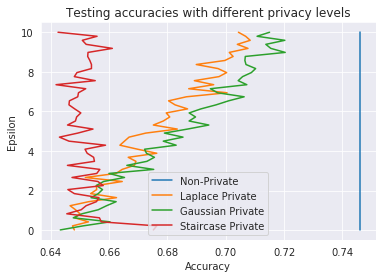
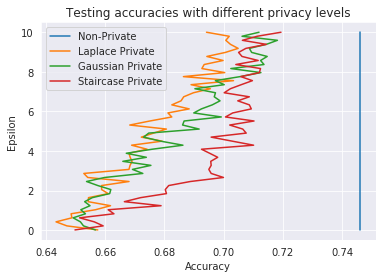
Update

diff --git a/Models/Data_Functions.py b/Models/Data_Functions.py
@@ -14,14 +14,6 @@ from sklearn.neighbors import KNeighborsClassifier
 from sklearn.ensemble import GradientBoostingClassifier
 from sklearn.svm import SVC
 
-def isKAnonymized(df, k):
-    for index, row in df.iterrows():
-        query = ' & '.join([f'{col} == {row[col]}' for col in df.columns])
-        rows = df.query(query)
-        if rows.shape[0] < k:
-            return False
-    return True
-
 def generateModel(model_type, X_train, y_train):
     """
     This function generates a model and trains it based on the model type.
@@ -302,7 +294,7 @@ def staircaseRV(epsilon, sensitivity, gamma):
     ----------
     epsilon : float
         The mean for the laplace distribution.
-    delta : float
+    sensitivity : float
         The standard deviation.
     gamma : float
         float in the range [0,1]
@@ -343,3 +335,13 @@ def staircaseRV(epsilon, sensitivity, gamma):
     
     return X
 
+def noisy_gradient_descent(iterations, epsilon, delta):
+    theta = np.zeros(X_train.shape[1])
+    sensitivity = '???'
+
+    for i in range(iterations):
+        grad = avg_grad(theta, X_train, y_train)
+        noisy_grad = gaussian_mech_vec(grad, sensitivity, epsilon, delta)
+        theta = theta - noisy_grad
+
+    return theta

diff --git a/Models/Generialise_Model_Code.py b/Models/Generialise_Model_Code.py
@@ -215,7 +215,7 @@ def runModel(model_type, trials, sensitivity=1, epsilon=0.1, diabetes_features=[
     # Private Staircase Logistic Regression Model
     for i in range(trials):
         # Generate a copy of the data set to make private
-        staircasePrivateDataset = addStaircaseNoise(diabetes.loc[:, diabetes.columns != 'Outcome'], scale, sensitivity, 0.5, diabetes_features)
+        staircasePrivateDataset = addStaircaseNoise(diabetes.loc[:, diabetes.columns != 'Outcome'], 0, scale, 0.5, diabetes_features)
         training_acc = []
         testing_acc = []
         
